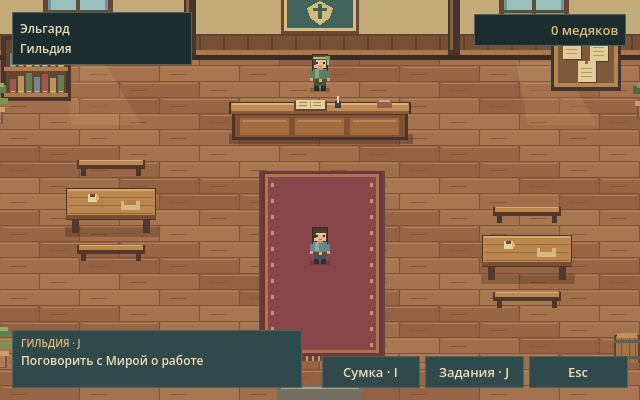
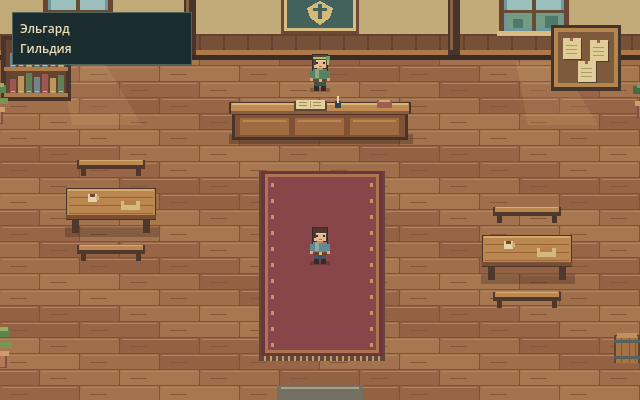
Simplify HUD and show only active objective at top right

Changed region(s): [[0.0, 0.81, 0.4688, 0.99], [0.5, 0.87, 1.0, 0.99], [0.7188, 0.03, 1.0, 0.12]]

diff --git a/README.md b/README.md
@@ -30,8 +30,9 @@ Godot 4.7.2, GDScript, Compatibility.
 - В журнале выбрать поручение и нажать «Отслеживать на экране». HUD показывает
   его следующий шаг; выбор сохраняется. Активные и завершённые задания разделены.
 - Предметы выделяются мышью, Tab или стрелками; описание и адресат видны рядом.
-- Кнопки внизу игрового экрана открывают сумку, задания и паузу мышью.
-  Рядом с доступным действием появляется кликабельная кнопка **E**.
+- В правом верхнем углу игрового экрана показана только текущая цель.
+  Без активных заданий угол пуст. Сумка, журнал и пауза открываются I/J/Esc;
+  деньги видны в меню героя. Рядом с доступным действием есть кнопка **E**.
 - **PgUp / PgDn** прокручивают длинный текст задания/диалога. **Esc → Управление**
   показывает памятку. Пауза возвращает фокус в прежнее окно.
 - У нижнего порога гильдии нажать **E**, чтобы выйти на площадь. Вход обратно —
@@ -73,7 +74,7 @@ Godot 4.7.2, GDScript, Compatibility.
 - `scripts/activity_game.gd` — рабочие мини-игры с выбором и попаданием в зону.
 - `scripts/character_panel.gd` — сумка, герой, журнал, предложения и рабочее место.
 - `scripts/ui_theme.gd`, `scripts/item_icon.gd` — стили, фокус и оригинальные иконки.
-- `scripts/game_hud.gd` — цель, кошелёк, кнопки мыши и уведомления сохранения.
+- `scripts/game_hud.gd` — текущая цель, контекстное действие и уведомления сохранения.
 - `scripts/quest_catalog.gd` — определения двух новых поручений и предметов.
 - `scripts/work_spot.gd` — отметки мест работы и выполненных действий.
 - `scripts/quest_dialogue.gd` — разговоры с Мирой и Корвином, ответы и условия работы.

diff --git a/DEVELOPMENT_LOG.md b/DEVELOPMENT_LOG.md
@@ -56,3 +56,15 @@
 Ограничения: автор пока не проверил обновление лично. Уровень/характеристики —
 баланс прототипа; боевой системы, экипировки, добычи и развития навыков ещё нет.
 Следующий содержательный этап — небольшой боевой эпизод по DESIGN_ROADMAP.md.
+
+## 2026-09-14 · Упрощение основного экрана по правке автора
+
+- Убраны постоянные кнопки сумки, заданий, Esc и сумма денег с HUD.
+- Справа вверху показан только текст текущей цели без заголовка, рамки и кнопки.
+  При отсутствии активных поручений текст пуст и скрыт, в том числе после
+  завершения последнего задания. Деньги доступны в меню героя, I/J/Esc работают.
+- Контекстное взаимодействие E и уведомления сохранения сохранены.
+- Обновлены описание интерфейса и примеры hud.png / hud-active.png.
+- Проверены ui_workflow с графической отрисовкой и quest_completion: обе проверки
+  прошли без ошибок Godot. Просмотрены состояния с текущей целью и без заданий;
+  проверены доступ к меню клавишами и взаимодействие мышью в ui_workflow.

diff --git a/docs/UI_DESIGN.md b/docs/UI_DESIGN.md
@@ -3,8 +3,11 @@
 ## Принципы
 
 Единая тёмная зелёная рама, тёплый светлый текст, золотой акцент выбора.
-Информация не конкурирует со сценой: в HUD только место, деньги, текущая цель
-и доступные действия. Никаких фиктивных HP, маны или слотов ещё не созданного боя.
+Информация не конкурирует со сценой: в HUD место, текущая цель справа вверху
+и доступное взаимодействие. Цель показана без заголовка и кнопки; если активных
+заданий нет, угол пуст. Деньги находятся в меню героя, сумка/задания/пауза
+открываются I/J/Esc, постоянных кнопок для них нет.
+Никаких фиктивных HP, маны или слотов ещё не созданного боя.
 
 Меню героя: вкладки «Сумка», «Герой», «Задания». В сумке предмет выбирается
 мышью либо фокусом клавиатуры; описание стоит рядом и не закрывает предметы.

diff --git a/PROJECT_STATE.md b/PROJECT_STATE.md
@@ -15,6 +15,8 @@
 - Вступительную сцену пока не делаем. Начало — гильдия, до разговора с Мирой.
 - Внутренняя работа требует простых мини-игр. Ожидание не завершает поручение.
 - Несколько поручений одновременно; личные деньги и характеристики в меню героя.
+- На основном экране нет кнопок сумки/заданий/Esc и суммы денег. Справа вверху
+  только текущая цель; без активных заданий там ничего не показывается.
 - 5 слотов. Ручное сохранение делает выбранный слот текущим. Перезапись и удаление
   с подтверждением. Esc доступен всегда; сохранять вручную можно вне действий.
 
